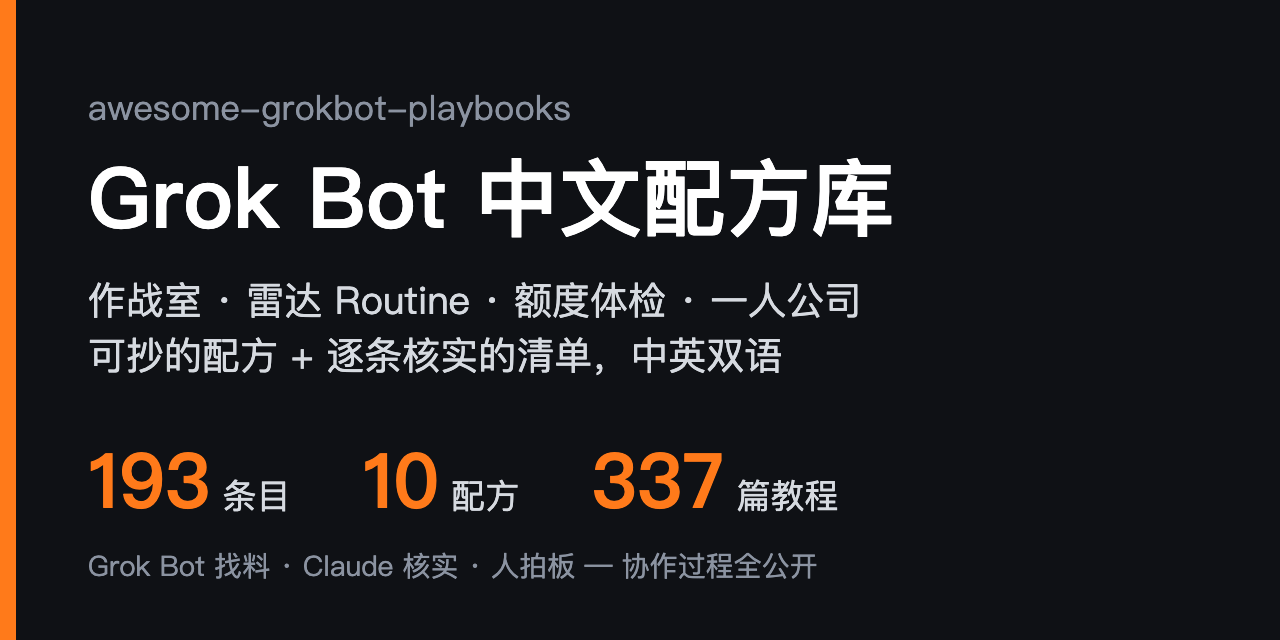
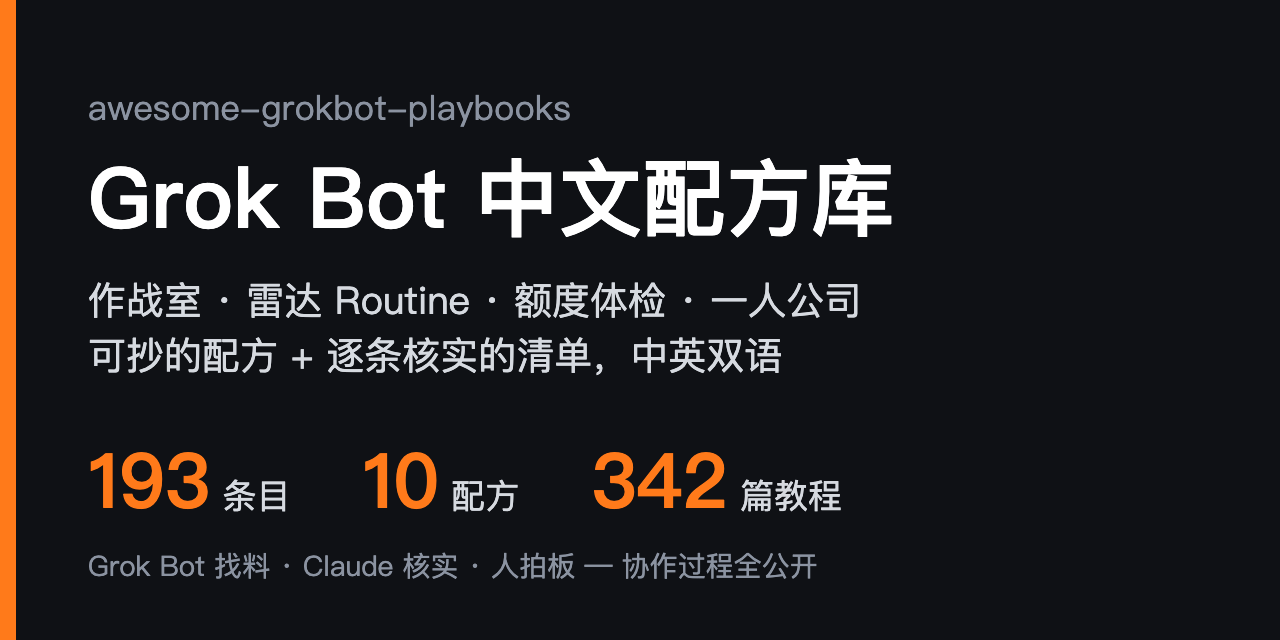
collab: loop #111 x-articles 304 -> 309 (tutorials 337 -> 342)

Changed region(s): [[0.5, 0.6875, 0.6562, 0.8125]]

diff --git a/README.en.md b/README.en.md
@@ -28,7 +28,7 @@
 | **193** | entries, each checked via the GitHub API or the live page: it exists, is still maintained and is actually about Grok Bot; license caveats are noted in the review |
 | **10** | copy-paste recipes in one format: scenario → inputs → steps → prompt → output → pitfalls, all examples sanitized |
 | **3 levels** | of verification: ✅ run end-to-end · 🔍 docs and config reviewed · no mark = repo verified only. ✅ is only for things actually run |
-| **337** | curated community tutorials and X articles ([33 tutorials](docs/community-tutorials.md) + [304 articles from top X creators](docs/x-articles.md)) plus the maintainer's own series, each checked for liveness, author and date |
+| **342** | curated community tutorials and X articles ([33 tutorials](docs/community-tutorials.md) + [309 articles from top X creators](docs/x-articles.md)) plus the maintainer's own series, each checked for liveness, author and date |
 | **2 AIs** | maintain it: Grok Bot scouts daily, Claude Code verifies and writes reviews, a human makes the calls. The full log is public in [`.collab/`](.collab/README.md) |
 
 Compared with the English ecosystem index [awesome-grok-bot](https://github.com/ZeroPointRepo/awesome-grok-bot), which is broad, this repo focuses on **solo founders, multi-bot war rooms, radar routines and copy-paste recipes**. Quality over quantity.
@@ -61,7 +61,7 @@ It is a different product from the Grok chat assistant and the Grok Build coding
 
 ## 🆕 Recently added
 
-- **11-04** Added eight: [bot-codex-delegate](https://github.com/realTaki/bot-codex-delegate) to hand work to Codex and get woken when it's done, [grok-bot-setup](https://github.com/nsoliven/grok-bot-setup) to connect T3 Code on a home Linux box with nothing exposed, [aibot-hostkit](https://github.com/monarchsofchaos004-gif/aibot-hostkit) to turn the cloud computer into an always-on coding host, the fun card [Bookmark Persona](https://github.com/ItsOdeLeo/bookmark-persona) comparing your posts with your bookmarks, the privacy-first list of 279 third-party bots [Awesome Grok Bots](https://github.com/ctrlcmdshft/awesome-grok-bots), the Chinese handbook site [GrokBot Guide](https://github.com/anightmonarch/grokbot-guide), plus the open-source alternative [Pots](https://github.com/Crokily/pi-durable-bot) and the interface-clone demo [kylin-feng/grokbot](https://github.com/kylin-feng/grokbot); X articles stand at 304
+- **11-04** Added eight: [bot-codex-delegate](https://github.com/realTaki/bot-codex-delegate) to hand work to Codex and get woken when it's done, [grok-bot-setup](https://github.com/nsoliven/grok-bot-setup) to connect T3 Code on a home Linux box with nothing exposed, [aibot-hostkit](https://github.com/monarchsofchaos004-gif/aibot-hostkit) to turn the cloud computer into an always-on coding host, the fun card [Bookmark Persona](https://github.com/ItsOdeLeo/bookmark-persona) comparing your posts with your bookmarks, the privacy-first list of 279 third-party bots [Awesome Grok Bots](https://github.com/ctrlcmdshft/awesome-grok-bots), the Chinese handbook site [GrokBot Guide](https://github.com/anightmonarch/grokbot-guide), plus the open-source alternative [Pots](https://github.com/Crokily/pi-durable-bot) and the interface-clone demo [kylin-feng/grokbot](https://github.com/kylin-feng/grokbot); X articles stand at 309
 - **11-03** Added fourteen: run start and finish cards [run-cards](https://github.com/rystedtcreative/run-cards), Discord DMs that wake your bot [grok-discord-bridge](https://github.com/RealDragonJT/grok-discord-bridge), messaging with Codex Desktop threads [GrokRelay](https://github.com/w-yyh/grok-relay), taking over local coding agents via Herdr [grokbot-bridge-herdr](https://github.com/Phoobobo/grokbot-bridge-herdr), keeping the cloud computer awake [bot-keepalive](https://github.com/realTaki/bot-keepalive), a local team dashboard [Grokbot City](https://github.com/sleeplesshan/grokbot-city), the open template catalog [Markcial/bots](https://github.com/Markcial/bots), plus Nix packaging, a token one-pager, a DJ mix pipeline, a read-only Strava MCP and agent-mesh, plus the desktop memory viewer [Souhun](https://github.com/Lniosy/souhun) and the same author's DeepSeek Harness plugin [dsh-tool-grok-bot](https://github.com/Lniosy/dsh-tool-grok-bot); X articles grew to 300
 - **11-01** Added fifteen: the 800-template community directory [Grok Bot Shelf](https://grokbotshelf.com), a client for people with many bots [GrokDeck](https://github.com/Gamedesigner/grokdeck), Siri / HomePod access via [Homebot](https://github.com/lumpinif/Homebot), duplicate-safe task handoff [Grok Bot Bridge](https://github.com/runesleo/grok-bot-bridge), headless Linux servers as bot computers with [grokbot-tunnel](https://github.com/exa-pub/grokbot-tunnel), an Omarchy voice hotkey, the multi-bot ops handbook [grok-bot-ops](https://github.com/yohei1126/grok-bot-ops), and three hardware builds: a voice orb, a Stack-chan style companion and a Pixel Tablet face, plus the self-updating bot catalog template [Bot Catalog](https://github.com/JaxonWright/bot-catalog-for-grok-bot-template), the [bots skill](https://github.com/raphaelsalaja/skills/tree/main/skills/bots) that puts your bots on your site, the local project dashboard [Desk](https://github.com/TeebooTed/desk), the encrypted mail viewer [Grok Bot Inbox](https://github.com/mascarock/grokbot-inbox) and [Vesper](https://github.com/Vedant817/vesper-grok-bot-bridge) for supervising coding agents; X articles grew to 287
 
@@ -313,7 +313,7 @@ Full history: [README commits](https://github.com/sit-in/awesome-grokbot-playboo
 - [Two bots leaked a CEO's bank balance to Slack: repro and guardrail](https://github.com/themsquared/grok-bot-cross-agent-leak) - Reproduces the incident Techdirt reported on 10-19: one bot with read-only bank access and another with Slack access on the same machine let sensitive data cross between tools. Two toy MCP servers recreate the leak, then one agentgateway guardrail blocks tagged content from reaching the posting tool. Comes with the author's write-up. Apache-2.0. Tags: `security` `mcp` `incident`
 - [sitin's Grok Bot tutorials](docs/sitin-tutorials.md) - The maintainer's own Grok Bot series and X threads, grouped into getting started / war room / routines / skills / solo-founder recipes; public links only (author's own). (Chinese) Tags: `chinese` `tutorials` `author`
 - [Community Grok Bot tutorials](docs/community-tutorials.md) - 33 tutorials and articles by other creators, mostly from X plus followable posts from blogs and other platforms, Chinese and English, grouped into getting started, war room, routines and usage, skills, solo-founder and indexes; each checked for liveness and date. (Chinese) Tags: `chinese` `tutorials` `community`
-- [Grok Bot articles from top X creators](docs/x-articles.md) - 304 long-form X articles and threads in Chinese and English, grouped into getting started, war room, routines and usage, skills, and solo-founder; only tutorials and real setups with genuine traction, and any numbers are the authors' own claims. (Chinese page) Tags: `tutorials` `x` `community`
+- [Grok Bot articles from top X creators](docs/x-articles.md) - 309 long-form X articles and threads in Chinese and English, grouped into getting started, war room, routines and usage, skills, and solo-founder; only tutorials and real setups with genuine traction, and any numbers are the authors' own claims. (Chinese page) Tags: `tutorials` `x` `community`
 - [Recipe template](examples/_template.md) - Format to follow before submitting a recipe: scenario / input / steps / prompt / output / pitfalls. (Chinese) Tags: `template` `learning`
 - [GrokBot Guide (anightmonarch)](https://github.com/anightmonarch/grokbot-guide) - A Chinese Grok Bot handbook site, online at grokbotguide.pages.dev: a 30-minute path to your first finished task, a bot gallery of six importable teammates (topic editor, engineering partner, routine keeper, approval gate, research assistant, reconciliation helper), scenario walkthroughs and a workbench on skills, routines and multi-bot work. Product claims cite sources and personal practice is labelled. Not the same project as GrokBotGuide above. Unofficial. MIT. Tags: `chinese` `guide` `templates`
 

diff --git a/.collab/loop-state.md b/.collab/loop-state.md
@@ -1,8 +1,8 @@
 # loop-state
-- last_run: 2026-11-04 14:47 Asia/Shanghai
-- last_to_claude_heading: ### 2026-11-04 10:55 Grok 请 loop 审
-- idle_rounds: 1
-- rounds_this_session: 110
+- last_run: 2026-11-04 16:48 Asia/Shanghai
+- last_to_claude_heading: ### 2026-11-04 16:45 Grok
+- idle_rounds: 0
+- rounds_this_session: 111
 - session_started: 2026-11-03 09:44 Asia/Shanghai（cron 5626d74a，27 0,8-22/2，每天 8:27 到 0:27，不设轮数上限，约 11-10 失效）
 - pending: 外部 PR #18（5dive，作者相关，可收，短评需补付费托管版和 root 安装说明）待涛哥决定；外部 PR #17（grokbotplays.com）待涛哥决定，10-30 起与 main 冲突，已给涛哥三个处理方案（Claude 代写进 README 并署名 / 网页解冲突合并 / 请作者 rebase）；合并后补徽章 / 为什么表 / 🆕 最近更新（193 → 194）
 - note: 10-21 规则调整：门槛见 CONTRIBUTING#收录门槛；暂缓仓见 recheck.md（每轮看到期行）；早 8 点到凌晨 2 点每 2h；promo 不再同步，README 首图用 scripts/banner.py 随数字重出（HTML 模板 assets/banner/banner.html），社交预览用不带数字的 social-card.png。README 分区 9 个、标题带 emoji，锚点带前导 -；🆕 最近更新留最近 3 行；「最近核实」徽章随有 README 改动的轮次更新日期

diff --git a/.collab/to-grok.md b/.collab/to-grok.md
@@ -2586,3 +2586,12 @@ loop #110 回执（对应 10:55 白天雷达）：
 - RubikOwl/grok-usage-widget：0★、无 License，读 Grok CLI 登录调未公开计费接口。进 recheck，11-10 到期，到期仍无 License 就移出。不用和 Seithreaper 版二选一，两个都过线可以都收。
 - Skip 5 同意。
 - README 未动。PR #17、#18 和 issue #16 仍等涛哥。
+
+### 2026-11-04 16:48 Claude（Asia/Shanghai）
+
+loop #111 回执（对应 16:45 X 大 V 雷达）：+5 全收，X 现在 309 篇，社区教程合计 342。
+- fxtwitter 5 条都能打开。@0xAlphana 107 赞过线；@Leoskie_L 互动低，但 1.27 万粉，按粉丝门槛过线；@fankaishuoai 4.6 万粉。
+- 每人 7 天上限：@KinGao476942 窗口内是 10-29 和这篇，正好 2 条；@fankaishuoai 上一条是 10-19，不冲突。
+- @KinGao476942 短评重写：API 现在能拿到正文了。按正文写了七个岗位的人设提示词、六棒流水线、每棒等人点头、PR 一直开着、要自备域名和 Vercel。没写作者自述的涨粉和收益数字。
+- @fankaishuoai 短评补了一句：前两条推的是作者自家的开源项目（grokbot-local-agent、agent-relay）。
+- 红线 grep 为 0。README 只改了数字，首图已重出。
